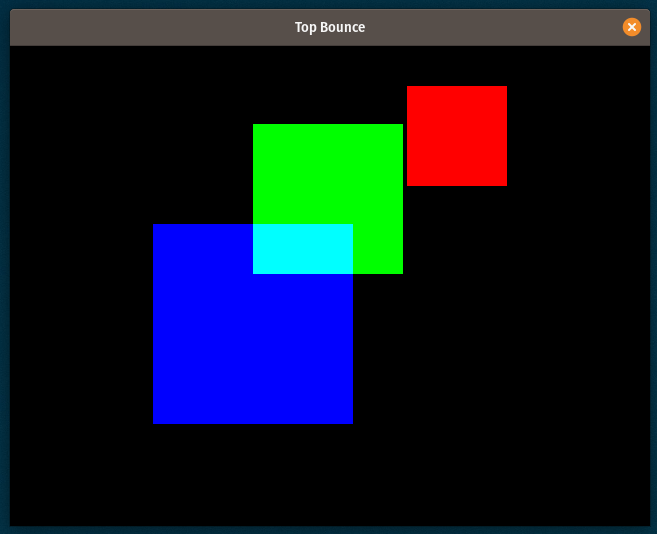
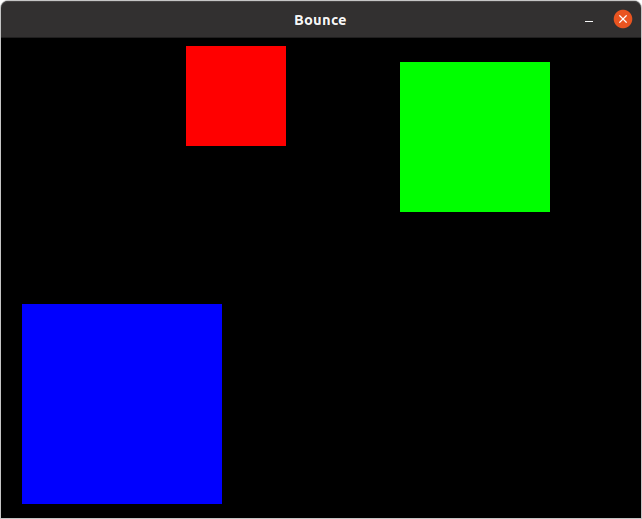
Improve Verilator/SDL Instructions (#55)
* Improve clarity of build instructions
* Screenshot should match new design
* Set sim executable name
* Shorten long code lines

diff --git a/graphics/fpga-graphics/verilator/main_bounce.cpp b/graphics/fpga-graphics/verilator/main_bounce.cpp
@@ -32,14 +32,15 @@ int main(int argc, char* argv[]) {
     SDL_Renderer* sdl_renderer = NULL;
     SDL_Texture*  sdl_texture  = NULL;
 
-    sdl_window = SDL_CreateWindow("Top Bounce", SDL_WINDOWPOS_CENTERED,
+    sdl_window = SDL_CreateWindow("Bounce", SDL_WINDOWPOS_CENTERED,
         SDL_WINDOWPOS_CENTERED, H_RES, V_RES, SDL_WINDOW_SHOWN);
     if (!sdl_window) {
         printf("Window creation failed: %s\n", SDL_GetError());
         return 1;
     }
 
-    sdl_renderer = SDL_CreateRenderer(sdl_window, -1, SDL_RENDERER_ACCELERATED | SDL_RENDERER_PRESENTVSYNC);
+    sdl_renderer = SDL_CreateRenderer(sdl_window, -1,
+        SDL_RENDERER_ACCELERATED | SDL_RENDERER_PRESENTVSYNC);
     if (!sdl_renderer) {
         printf("Renderer creation failed: %s\n", SDL_GetError());
         return 1;

diff --git a/graphics/fpga-graphics/verilator/main_square.cpp b/graphics/fpga-graphics/verilator/main_square.cpp
@@ -32,14 +32,15 @@ int main(int argc, char* argv[]) {
     SDL_Renderer* sdl_renderer = NULL;
     SDL_Texture*  sdl_texture  = NULL;
 
-    sdl_window = SDL_CreateWindow("Top Square", SDL_WINDOWPOS_CENTERED,
+    sdl_window = SDL_CreateWindow("Square", SDL_WINDOWPOS_CENTERED,
         SDL_WINDOWPOS_CENTERED, H_RES, V_RES, SDL_WINDOW_SHOWN);
     if (!sdl_window) {
         printf("Window creation failed: %s\n", SDL_GetError());
         return 1;
     }
 
-    sdl_renderer = SDL_CreateRenderer(sdl_window, -1, SDL_RENDERER_ACCELERATED | SDL_RENDERER_PRESENTVSYNC);
+    sdl_renderer = SDL_CreateRenderer(sdl_window, -1,
+        SDL_RENDERER_ACCELERATED | SDL_RENDERER_PRESENTVSYNC);
     if (!sdl_renderer) {
         printf("Renderer creation failed: %s\n", SDL_GetError());
         return 1;

diff --git a/graphics/fpga-graphics/verilator/main_beam.cpp b/graphics/fpga-graphics/verilator/main_beam.cpp
@@ -32,14 +32,15 @@ int main(int argc, char* argv[]) {
     SDL_Renderer* sdl_renderer = NULL;
     SDL_Texture*  sdl_texture  = NULL;
 
-    sdl_window = SDL_CreateWindow("Top Beam", SDL_WINDOWPOS_CENTERED,
+    sdl_window = SDL_CreateWindow("Beam", SDL_WINDOWPOS_CENTERED,
         SDL_WINDOWPOS_CENTERED, H_RES, V_RES, SDL_WINDOW_SHOWN);
     if (!sdl_window) {
         printf("Window creation failed: %s\n", SDL_GetError());
         return 1;
     }
 
-    sdl_renderer = SDL_CreateRenderer(sdl_window, -1, SDL_RENDERER_ACCELERATED | SDL_RENDERER_PRESENTVSYNC);
+    sdl_renderer = SDL_CreateRenderer(sdl_window, -1,
+        SDL_RENDERER_ACCELERATED | SDL_RENDERER_PRESENTVSYNC);
     if (!sdl_renderer) {
         printf("Renderer creation failed: %s\n", SDL_GetError());
         return 1;

diff --git a/graphics/fpga-graphics/verilator/README.md b/graphics/fpga-graphics/verilator/README.md
@@ -4,7 +4,7 @@ This folder contains Verilator simulations to accompany the Project F blog post:
 
 If you're new to graphics simulations check out **[Verilog Simulation with Verilator and SDL](https://projectf.io/posts/verilog-sim-verilator-sdl/)**.
 
-[Verilator](https://www.veripool.org/verilator/) creates C++ simulations of Verilog designs, while [SDL](https://www.libsdl.org) produces simple cross-platform graphics applications. By combining the two, you can simulate your design without needing an FPGA. Verilator is fast, but it's still much slower than an FPGA. For these single-threaded designs, you can expect around 60 frames per second on a modern PC, with optimizations enabled.
+[Verilator](https://www.veripool.org/verilator/) creates C++ simulations of Verilog designs, while [SDL](https://www.libsdl.org) produces simple cross-platform graphics applications. By combining the two, you can simulate your design without needing an FPGA. Verilator is fast, but it's still much slower than an FPGA. However, for these simple designs you can reach 60 frames per second on a modern PC.
 
 ![](../../../doc/img/top-bounce-verilator-sdl.png?raw=true "")
 
@@ -18,28 +18,43 @@ Then navigate to the Verilator directory:
 cd projf-explore/graphics/fpga-graphics/verilator
 ```
 
-### Top Square
+Then run Verilator and make for the project of interest:
+
+### Square
 
 ```bash
-verilator -I../ -cc top_square.sv --exe main_square.cpp -CFLAGS "$(sdl2-config --cflags)" -LDFLAGS "$(sdl2-config --libs)"
+verilator -I../ -cc top_square.sv --exe main_square.cpp -o square \
+    -CFLAGS "$(sdl2-config --cflags)" -LDFLAGS "$(sdl2-config --libs)"
+
 make -C ./obj_dir -f Vtop_square.mk
-./obj_dir/Vtop_square
 ```
 
-### Top Beam
+You can then run the simulation executable from `obj_dir`:
 
 ```bash
-verilator -I../ -cc top_beam.sv --exe main_beam.cpp -CFLAGS "$(sdl2-config --cflags)" -LDFLAGS "$(sdl2-config --libs)"
+./obj_dir/square
+```
+
+### Beam
+
+```bash
+verilator -I../ -cc top_beam.sv --exe main_beam.cpp -o beam \
+    -CFLAGS "$(sdl2-config --cflags)" -LDFLAGS "$(sdl2-config --libs)"
+
 make -C ./obj_dir -f Vtop_beam.mk
-./obj_dir/Vtop_beam
+
+./obj_dir/beam
 ```
 
-### Top Bounce
+### Bounce
 
 ```bash
-verilator -I../ -cc top_bounce.sv --exe main_bounce.cpp -CFLAGS "$(sdl2-config --cflags)" -LDFLAGS "$(sdl2-config --libs)"
+verilator -I../ -cc top_bounce.sv --exe main_bounce.cpp -o bounce \
+    -CFLAGS "$(sdl2-config --cflags)" -LDFLAGS "$(sdl2-config --libs)"
+
 make -C ./obj_dir -f Vtop_bounce.mk
-./obj_dir/Vtop_bounce
+
+./obj_dir/bounce
 ```
 
 _Note: all three designs use [simple_display_timings_480p.sv](../simple_display_timings_480p.sv) from the main [FPGA Graphics](../) folder._
